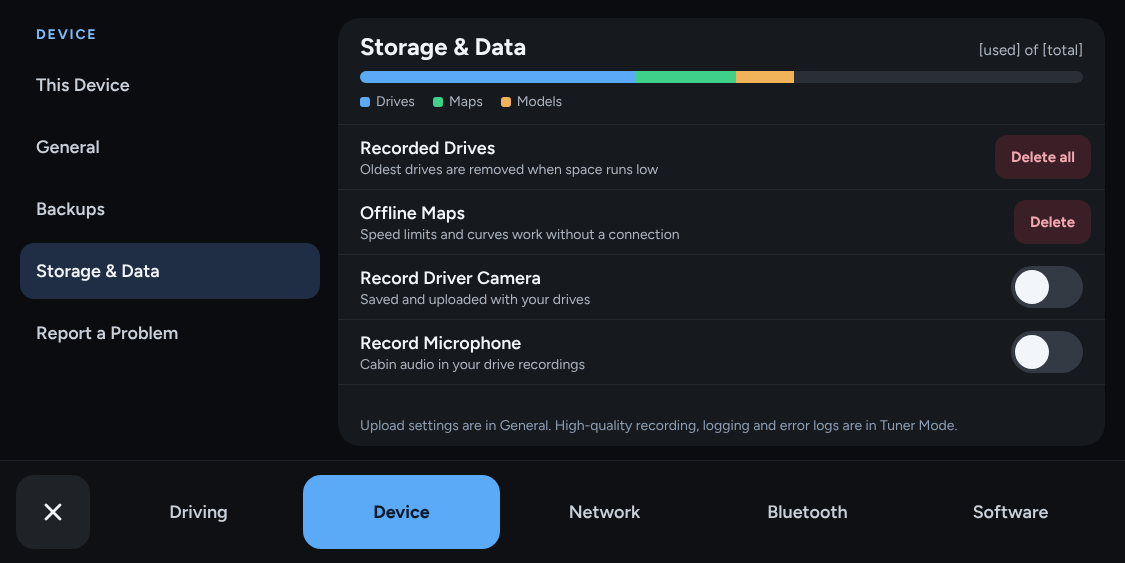
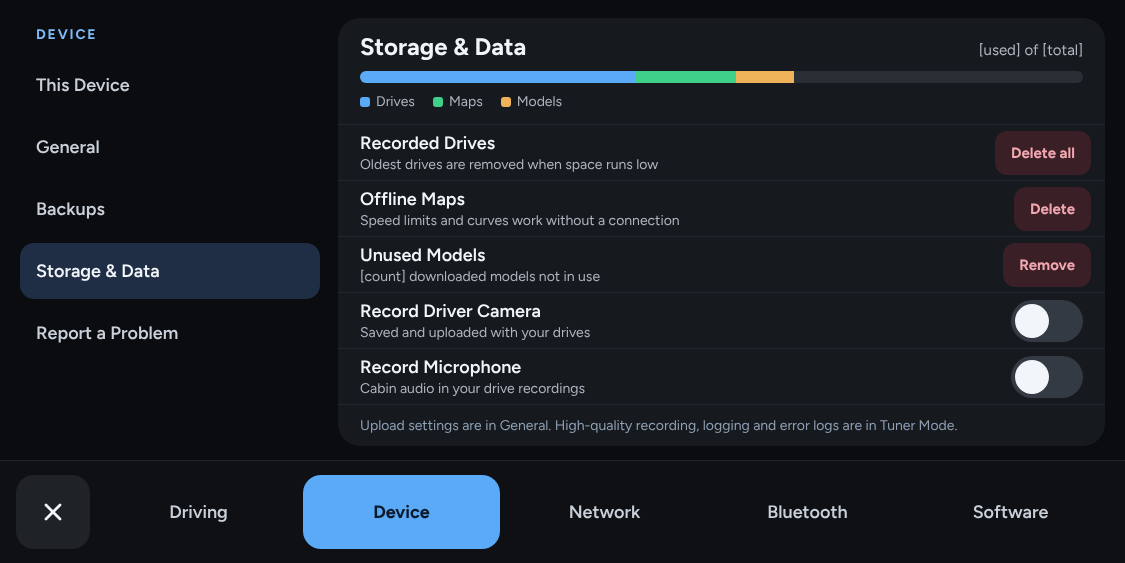
Essentials: remove unused models from Storage & Data
A new Unused Models row counts downloaded models that aren't the current or
recommended one and removes them after a confirm. It follows StarPilot's
rules (not while driving or during a download), shown as the row's subtitle;
the catalog's button now respects them too instead of popping StarPilot's
alerts. Mock updated.

Claude-Session: https://claude.ai/code/session_01R4pPc2hcx88Dbjjec1p8WC

Changed region(s): [[0.3111, 0.2416, 0.6222, 0.6945], [0.8711, 0.2114, 0.9956, 0.7247]]

diff --git a/selfdrive/ui/tandem/design/systemstorage.html b/selfdrive/ui/tandem/design/systemstorage.html
@@ -42,6 +42,10 @@ a{color:#7DBBF9}a:hover{color:#A9D3FB}
         <div style="flex-grow: 1; display: flex; flex-direction: column; gap: 2px;"><span style="font-size: 18px; font-weight: 600;">Offline Maps</span><span style="font-size: 14px; color: #AEB6C2;">Speed limits and curves work without a connection</span></div>
         <button type="button" style="font-family: inherit; height: 44px; padding: 0 16px; border: 0; border-radius: 12px; background: #3A2026; color: #F2A7B1; font-size: 15px; font-weight: 700;">Delete</button>
       </div>
+      <div style="display: flex; align-items: center; gap: 16px; padding: 0 14px 0 22px; height: 64px; border-bottom: 1px solid #23272E;">
+        <div style="flex-grow: 1; display: flex; flex-direction: column; gap: 2px;"><span style="font-size: 18px; font-weight: 600;">Unused Models</span><span style="font-size: 14px; color: #AEB6C2;">[count] downloaded models not in use</span></div>
+        <button type="button" style="font-family: inherit; height: 44px; padding: 0 16px; border: 0; border-radius: 12px; background: #3A2026; color: #F2A7B1; font-size: 15px; font-weight: 700;">Remove</button>
+      </div>
       <div style="display: flex; align-items: center; gap: 16px; padding: 0 22px; height: 64px; border-bottom: 1px solid #23272E;">
         <div style="flex-grow: 1; display: flex; flex-direction: column; gap: 2px;"><span style="font-size: 18px; font-weight: 600;">Record Driver Camera</span><span style="font-size: 14px; color: #AEB6C2;">Saved and uploaded with your drives</span></div>
         <button type="button" role="switch" aria-checked="false" aria-label="Record Driver Camera" style="width: 72px; height: 42px; border-radius: 21px; border: 0; background: #343A44; padding: 4px; display: flex; justify-content: flex-start;"><span style="width: 34px; height: 34px; border-radius: 17px; background: #F2F5F9; display: block;"></span></button>

diff --git a/selfdrive/ui/tandem/settings/device_sections.py b/selfdrive/ui/tandem/settings/device_sections.py
@@ -284,7 +284,27 @@ def delete_maps_row(data: DeviceData, window, height: float | None = None) -> Se
   return SettingRow("Offline Maps", subtitle, delete, height=height)
 
 
-def storage_panel(model: General, window) -> ListPanel:
+def unused_models_row(models, window) -> SettingRow:
+  """Storage & Data's row for downloaded models that aren't in use (never the current or recommended one)."""
+  def subtitle() -> str:
+    count = len(models.unused())
+    blocked = models.source.removal_blocked()
+    if blocked and count:
+      return blocked
+    return f"{count} downloaded model{'s' if count != 1 else ''} not in use" if count else "Only the models you use are downloaded"
+
+  def remove() -> None:
+    count = len(models.unused())
+    confirm(window, "Remove unused models?",
+            f"{count} model{'s' if count != 1 else ''} you aren't using {'are' if count != 1 else 'is'} removed. " +
+            "You can download them again from the model catalog.", "Remove",
+            lambda: (models.remove_unused(), STORAGE.forget()))
+  button = Button("Remove", remove, ButtonStyle.DANGER_SOFT)
+  button.set_enabled(lambda: bool(models.unused()) and not models.source.removal_blocked())
+  return SettingRow("Unused Models", subtitle, button)
+
+
+def storage_panel(model: General, window, models) -> ListPanel:
   driver = SettingRow("Record Driver Camera", "Saved and uploaded with your drives. Restarts openpilot if the car is on.",
                       Switch(lambda: model.record_driver, model.set_record_driver))
   audio = SettingRow("Record Microphone", "Cabin audio in your drive recordings. Restarts openpilot if the car is on.",
@@ -297,6 +317,7 @@ def storage_panel(model: General, window) -> ListPanel:
                Button("Delete all", lambda: confirm(window, "Delete all drives?", DELETE_DRIVES_MESSAGE, "Delete", model.data.delete_drives),
                       ButtonStyle.DANGER_SOFT)),
     delete_maps_row(model.data, window),
+    unused_models_row(models, window),
     driver,
     audio,
   ], title="Storage & Data", header_divider=False, end_divider=True,   # the usage bar belongs to the header, as in the mock

diff --git a/selfdrive/ui/tandem/settings/model.py b/selfdrive/ui/tandem/settings/model.py
@@ -47,6 +47,7 @@ class ModelSource(Protocol):
   def download(self, key: str) -> None: ...
   def cancel(self) -> None: ...
   def remove(self, key: str) -> None: ...
+  def removal_blocked(self) -> str: ...   # why models can't be removed right now, or ""
 
 
 class Models:
@@ -307,7 +308,7 @@ class CatalogPage(Component):
       models.source.tick))
     remove = Button(lambda: f"Remove unused models ({len(models.unused())})" if models.unused() else "Remove unused models",
                     lambda: (models.remove_unused(), STORAGE.forget()), height=T.px(46), font_size=T.font_px(15))
-    remove.set_enabled(lambda: bool(models.unused()))
+    remove.set_enabled(lambda: bool(models.unused()) and not models.source.removal_blocked())
     note = lambda text: Text(text, T.SIZE_SUBTITLE, T.TEXT_SECONDARY, padding=(0, 0))  # noqa: E731
     self._side = self._child(Stack([
       Card([
@@ -386,3 +387,12 @@ class UpstreamModels:
 
   def remove(self, key: str) -> None:
     self._layout.delete_model(key)
+
+  def removal_blocked(self) -> str:
+    """StarPilot's rules for deleting model files: not while driving, not during a download."""
+    from openpilot.selfdrive.ui.ui_state import ui_state
+    if ui_state.started:
+      return "Park to remove models"
+    if self._layout._is_download_active():
+      return "Wait for the download to finish"
+    return ""

diff --git a/selfdrive/ui/tandem/settings/window.py b/selfdrive/ui/tandem/settings/window.py
@@ -21,6 +21,7 @@ from openpilot.selfdrive.ui.tandem.settings.bluetooth_tab import BluetoothPage, 
 from openpilot.selfdrive.ui.tandem.settings.defaults import apply_essentials
 from openpilot.selfdrive.ui.tandem.settings.device_sections import (General, Report, backups_panel, confirm, general_panel, report_panel,
                                                                     storage_panel)
+from openpilot.selfdrive.ui.tandem.settings.model import Models
 from openpilot.selfdrive.ui.tandem.settings.network_tab import Network, NetworkPage, advanced_panel
 from openpilot.selfdrive.ui.tandem.settings.software_tab import Software, SoftwarePage
 from openpilot.selfdrive.ui.tandem.settings.driving_tab import driving_hub
@@ -278,7 +279,7 @@ class SettingsWindow(Widget):
       Section("This Device", lambda: ThisDevicePanel(self.device())),
       Section("General", lambda: general_panel(general, self)),
       Section("Backups", lambda: backups_panel(general, self)),
-      Section("Storage & Data", lambda: storage_panel(general, self)),
+      Section("Storage & Data", lambda: storage_panel(general, self, Models(self.store, self.model_source()))),
       Section("Report a Problem", lambda: report_panel(report)),
       Section("Developer", upstream.developer, visible=lambda: TUNER_MODE.is_on(self.store)),
     ])

diff --git a/selfdrive/ui/tandem/tests/fakes.py b/selfdrive/ui/tandem/tests/fakes.py
@@ -47,6 +47,9 @@ class FakeModels:
   def remove(self, key):
     self.items = [m for m in self.items if m.key != key]
 
+  def removal_blocked(self):
+    return ""
+
 
 class FakeCars:
   def makes(self):

diff --git a/selfdrive/ui/tandem/README.md b/selfdrive/ui/tandem/README.md
@@ -87,7 +87,7 @@ This fork is rebased onto StarPilot, and everything outside this package belongs
 | | Offline Maps and the region picker | `maps.py` | Maps screen controller; removal is StarPilot's (parked, not mid-download), confirmed in our dialog |
 | | Tuner Mode: Steering, Gas & Brake, Following & Stops, Bundle Overrides | `tuner.py`, `editors.py` | |
 | Device | This Device | `device.py` | `DeviceLayout` handlers |
-| | General, Backups, Storage & Data, Report a Problem | `device_sections.py` | Same folders and report as StarPilot's System screen; one storage measurement shared with Offline Maps and the model catalog; offline maps can also be deleted here |
+| | General, Backups, Storage & Data, Report a Problem | `device_sections.py` | Same folders and report as StarPilot's System screen; one storage measurement shared with Offline Maps and the model catalog; offline maps and unused models can also be removed here |
 | Network | Wi-Fi, Cellular, and Roaming, APN and IP address | `network_tab.py` | `WifiManager` |
 | Bluetooth | Wheel Buttons, car audio, nearby devices | `bluetooth_tab.py` | Wheel controls service, `BluetoothManager` |
 | Software | Updates, release channel, Reset Settings, Uninstall | `software_tab.py`, `defaults.py` | `SoftwareLayout` actions |
